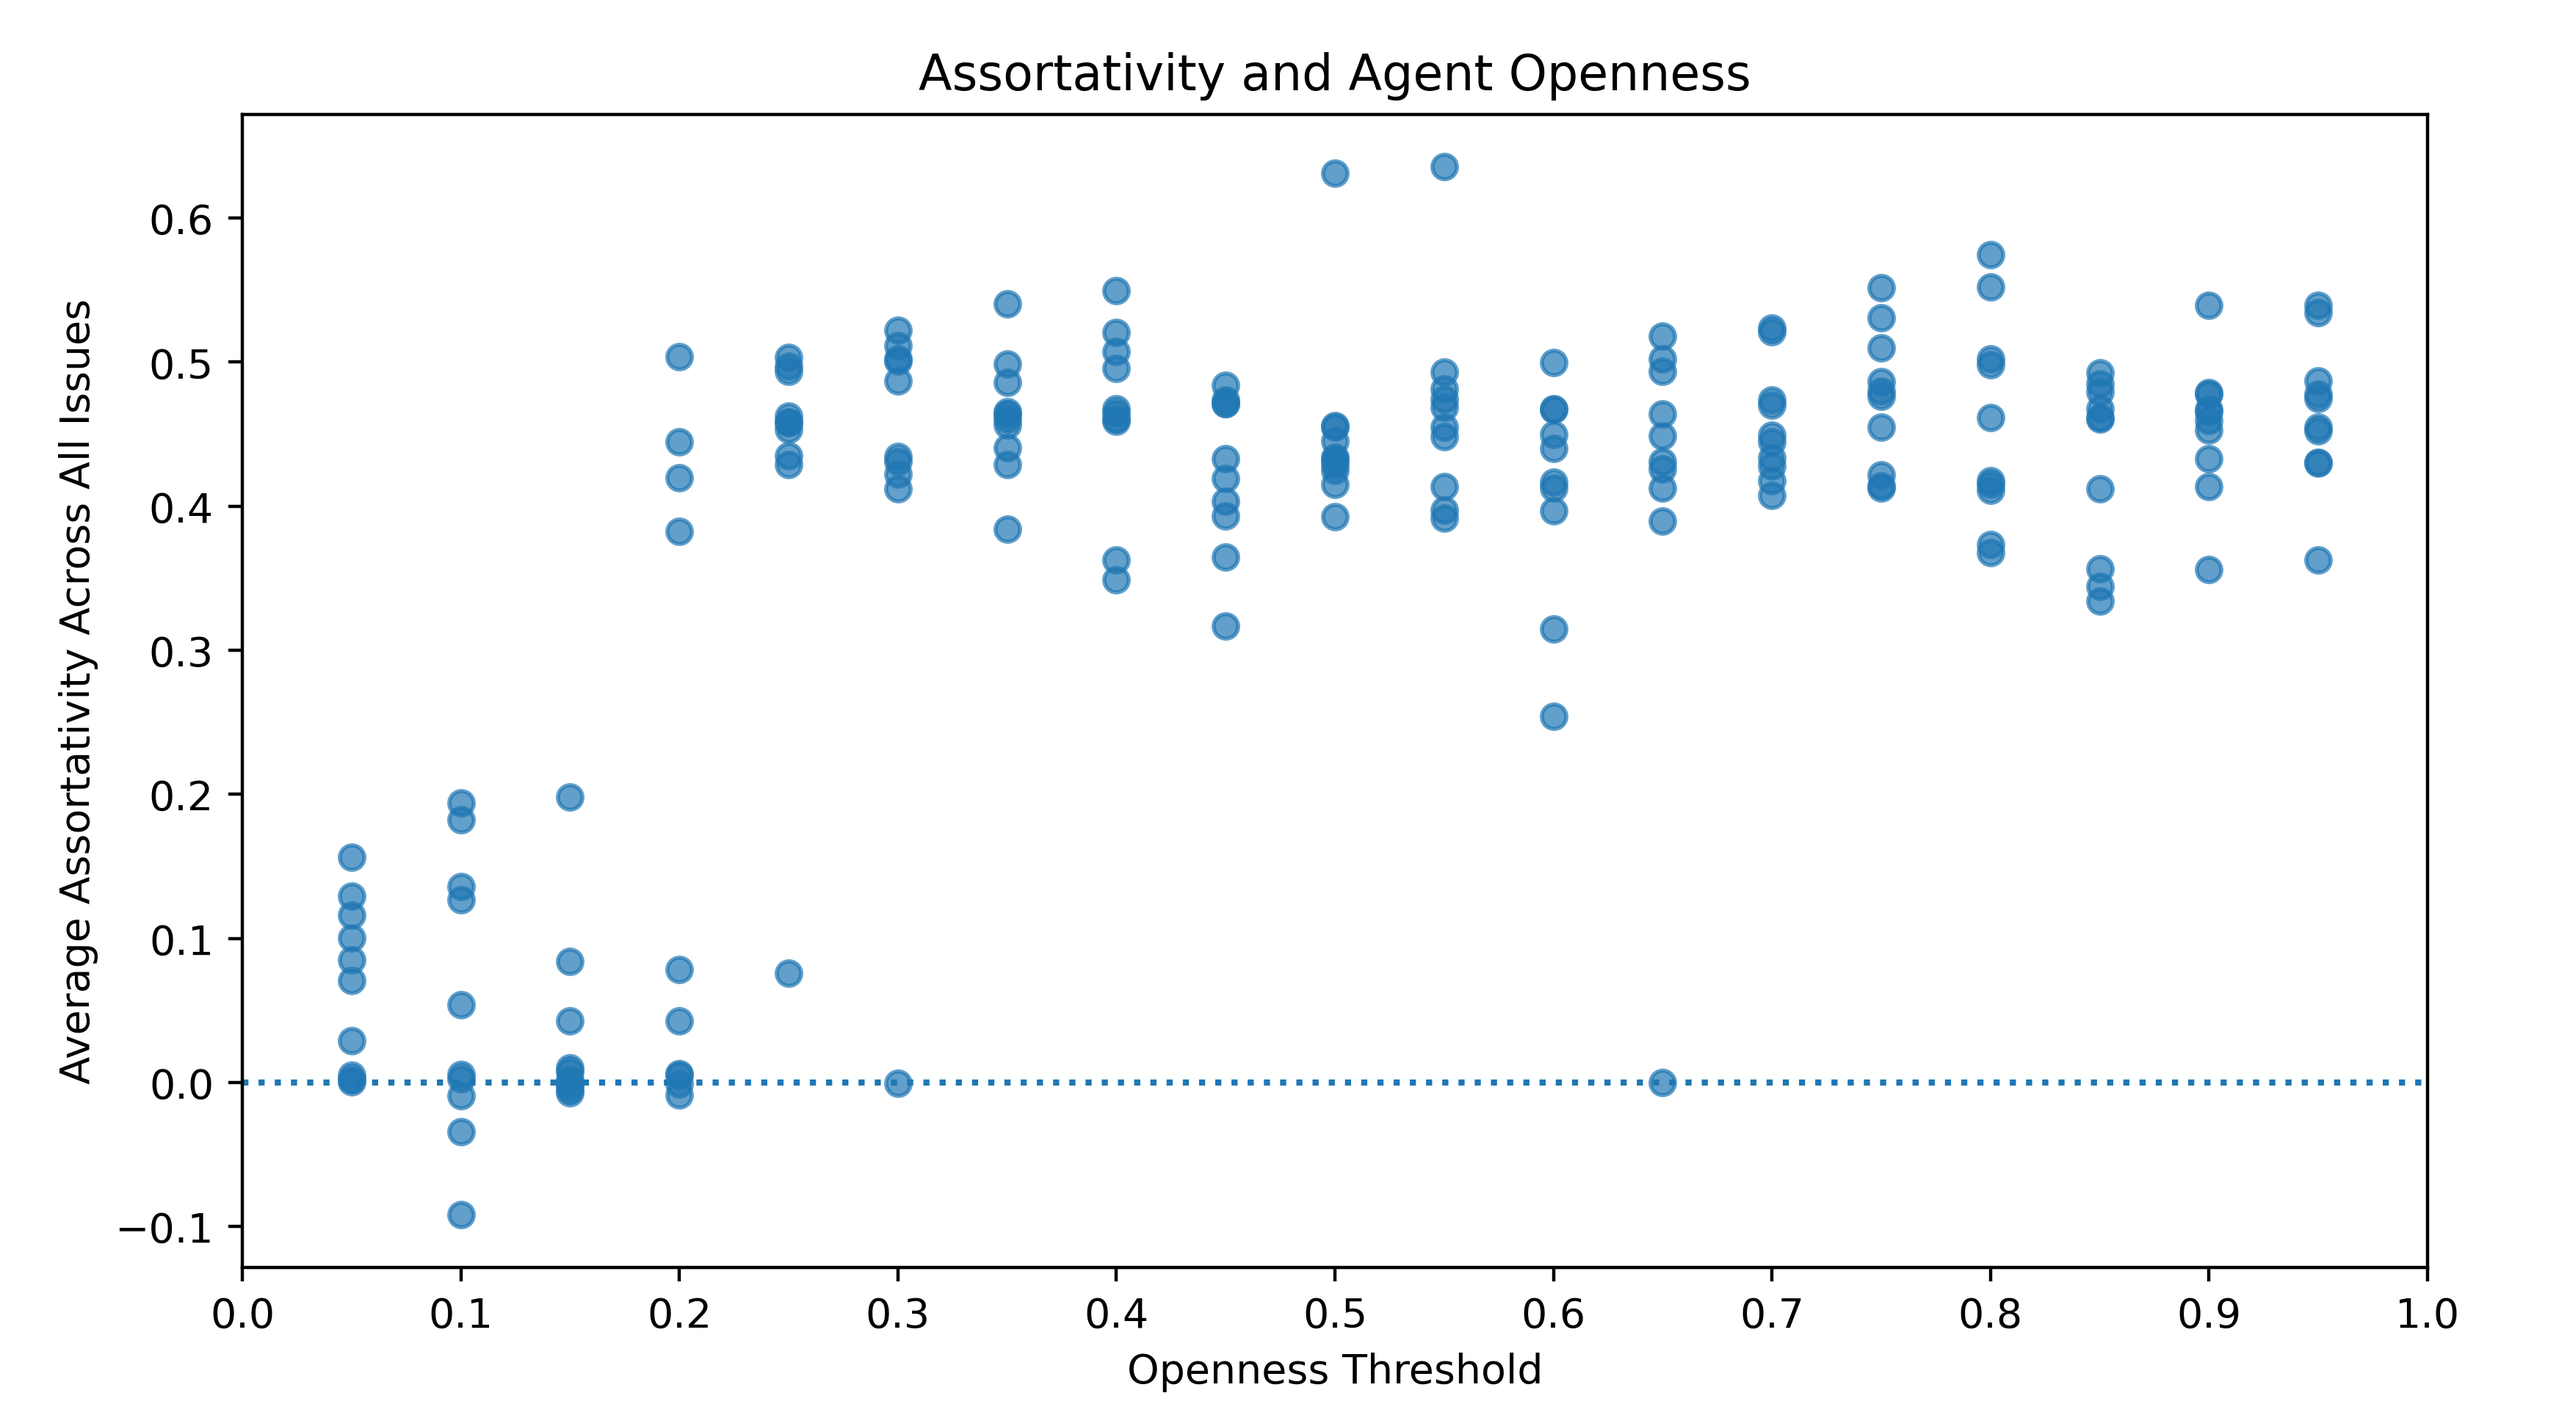
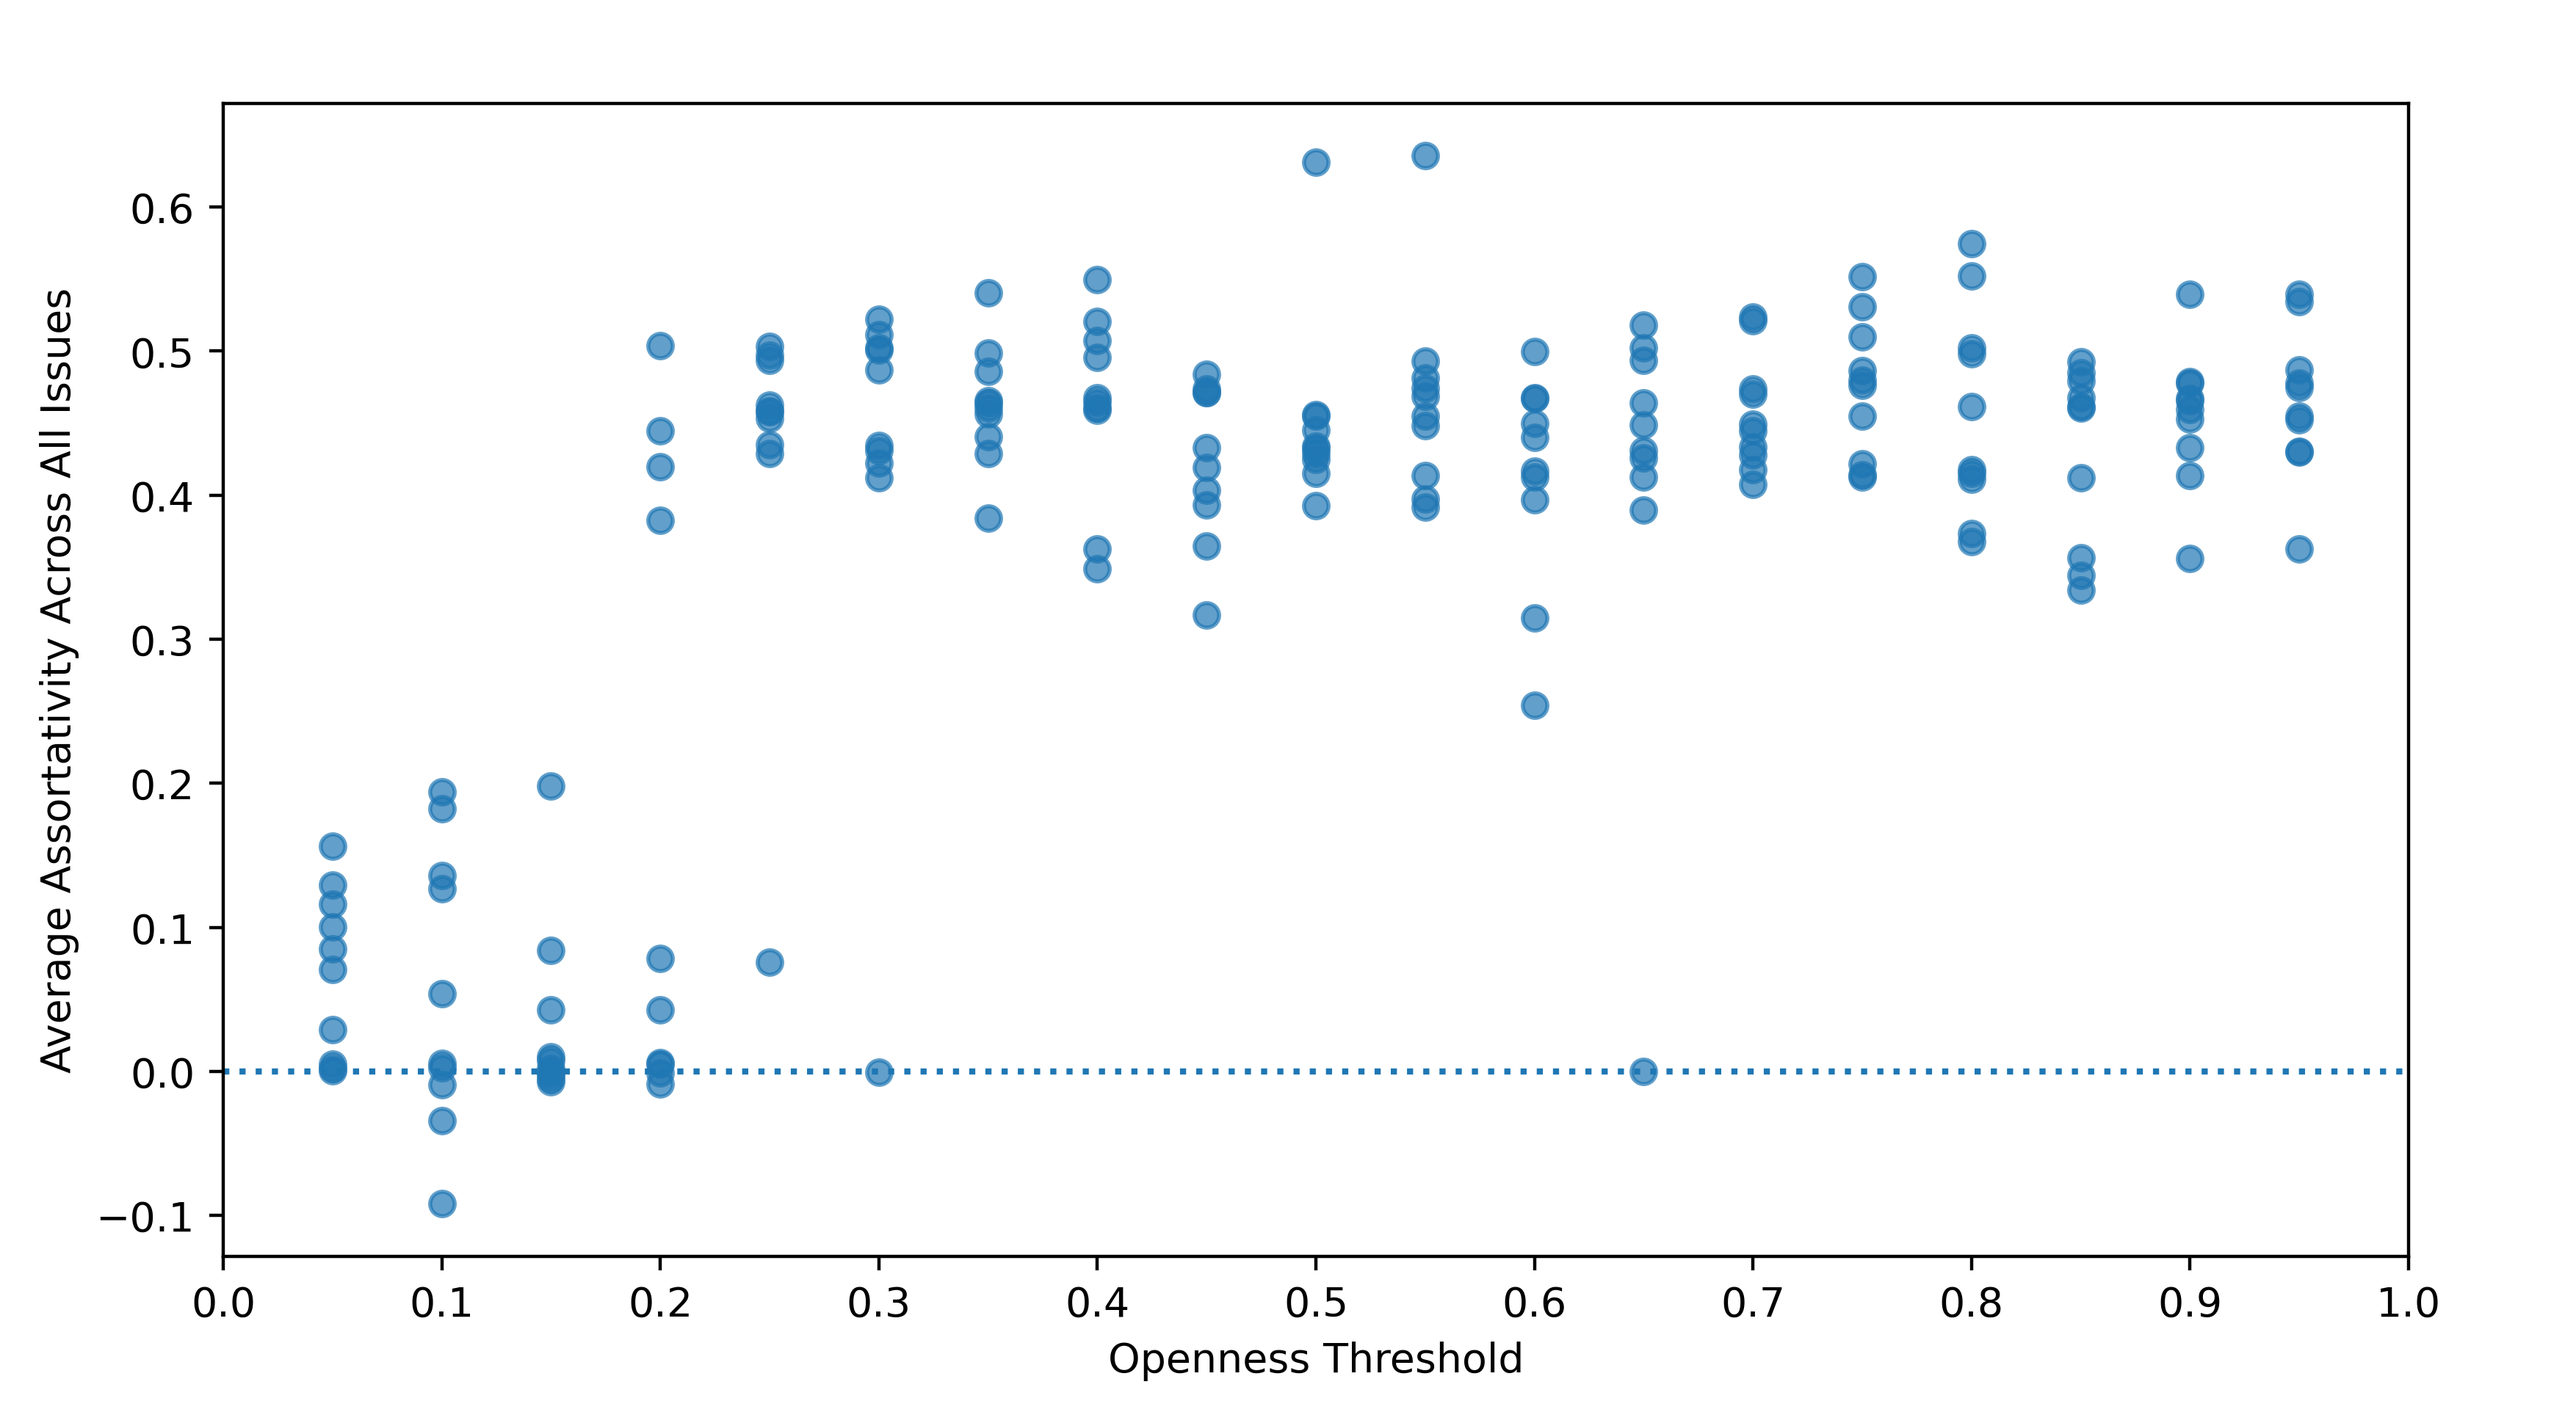
removed title from assort and openness plot

diff --git a/code/runFile.py b/code/runFile.py
@@ -40,4 +40,4 @@ sweep = bvmSweep({"issues":3, "l_steps":1000, "n_agents":500, 'CI2':True, 'd':1,
 #data.to_csv('MoreagentsAssortEdgeData.csv')
 data = pd.read_csv('AssortOpennessData.csv')
 print(data)
-sweep.plotScatter("Assortativity and Agent Openness",'AssortOpennessData.csv')
+sweep.plotScatter("",'AssortOpennessData.csv')
